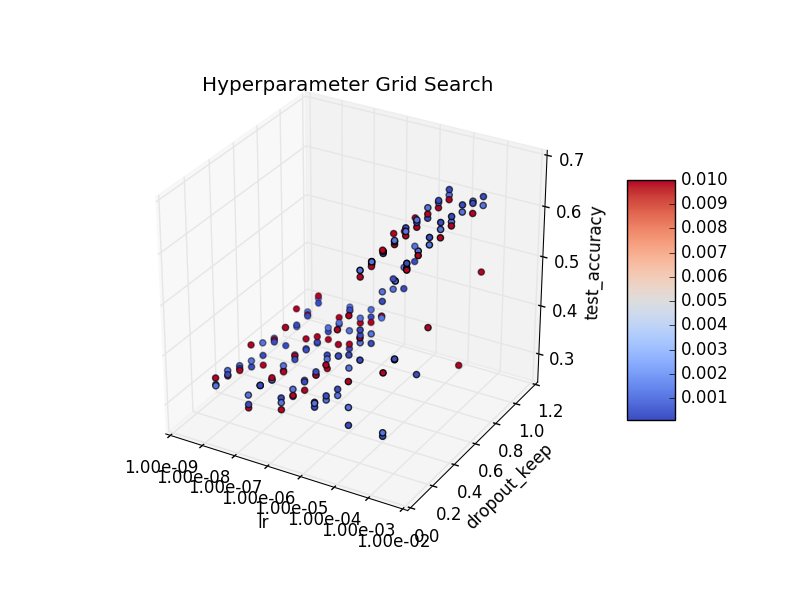
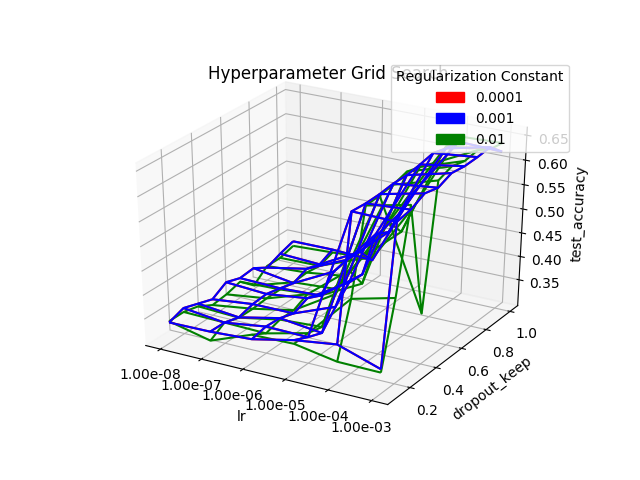
alksdfjlaskdjf

diff --git a/code/processPickle.py b/code/processPickle.py
@@ -2,9 +2,10 @@ import cPickle as pickle
 import os
 from matplotlib import cm
 import matplotlib.pyplot as plt
-from mpl_toolkits.mplot3d import Axes3D
+from mpl_toolkits.mplot3d import Axes3D, axes3d
 import numpy as np
 import matplotlib.ticker as mticker
+import matplotlib.patches as mpatches
 
 
 file_path = 'gpu-runs/run2/grid.p'
@@ -57,17 +58,51 @@ for key in keys:
 def log_tick_formatter(val, pos=None):
     return "{:.2e}".format(10**val)
 
+
+# sp = ax.scatter(np.log10(lr), dropout_keep, test_accuracy, c=reg_lambda, cmap=cm.coolwarm)
+# sp = ax.scatter(np.log10(lr), dropout_keep, test_accuracy)
+
+# PROCESS DATA FOR PLOTTING
+lr = np.log10(lr)
+graph_map = {}
+for i in xrange(len(lr)):
+  graph_map[(lr[i], dropout_keep[i], reg_lambda[i])] = test_accuracy[i]
+
+X = np.unique(np.array(sorted(lr)))
+Y = np.unique(np.array(sorted(dropout_keep)))
+X, Y = np.meshgrid(X, Y)
+
+# For each reg_lambda
+Zs = []
+for reg_lam in reg_lambda:
+  Z = np.empty(np.shape(X))
+  for i in xrange(np.shape(Z)[0]):
+    for j in xrange(np.shape(Z)[1]):
+      Z[i, j] = graph_map[(X[i, j], Y[i, j], reg_lam)]
+  Zs.append(Z)
+
+colors = ["red", "blue", "green", "yellow", "purple", "orange", "black"]
+reg_lambda = np.array(np.unique(reg_lambda))
+
+#### PLOTTING CODE ###########
 fig = plt.figure()
 ax = fig.add_subplot(111, projection='3d')
-sp = ax.scatter(np.log10(lr), dropout_keep, test_accuracy, c=reg_lambda, cmap=cm.coolwarm)
+for i in xrange(len(reg_lambda)):
+  ax.plot_wireframe(X, Y, Zs[i], color=colors[i])
 
 ax.set_xlabel('lr')
 # lr is on a log scale
 ax.xaxis.set_major_formatter(mticker.FuncFormatter(log_tick_formatter))
 ax.set_ylabel('dropout_keep')
 ax.set_zlabel('test_accuracy')
+
+# CREATE LEGEND
+patches = []
+for i in xrange(len(reg_lambda)):
+  patches.append(mpatches.Patch(color=colors[i], label=str(reg_lambda[i])))
+plt.legend(handles=patches, title="Regularization Constant")
 # Color is reg_lambda
-fig.colorbar(sp, shrink=0.5, aspect=5)
+# fig.colorbar(sp, shrink=0.5, aspect=5)
 
 plt.title("Hyperparameter Grid Search")
 plt.savefig('./data/hyperparams/' + output_file_name + '.png')
